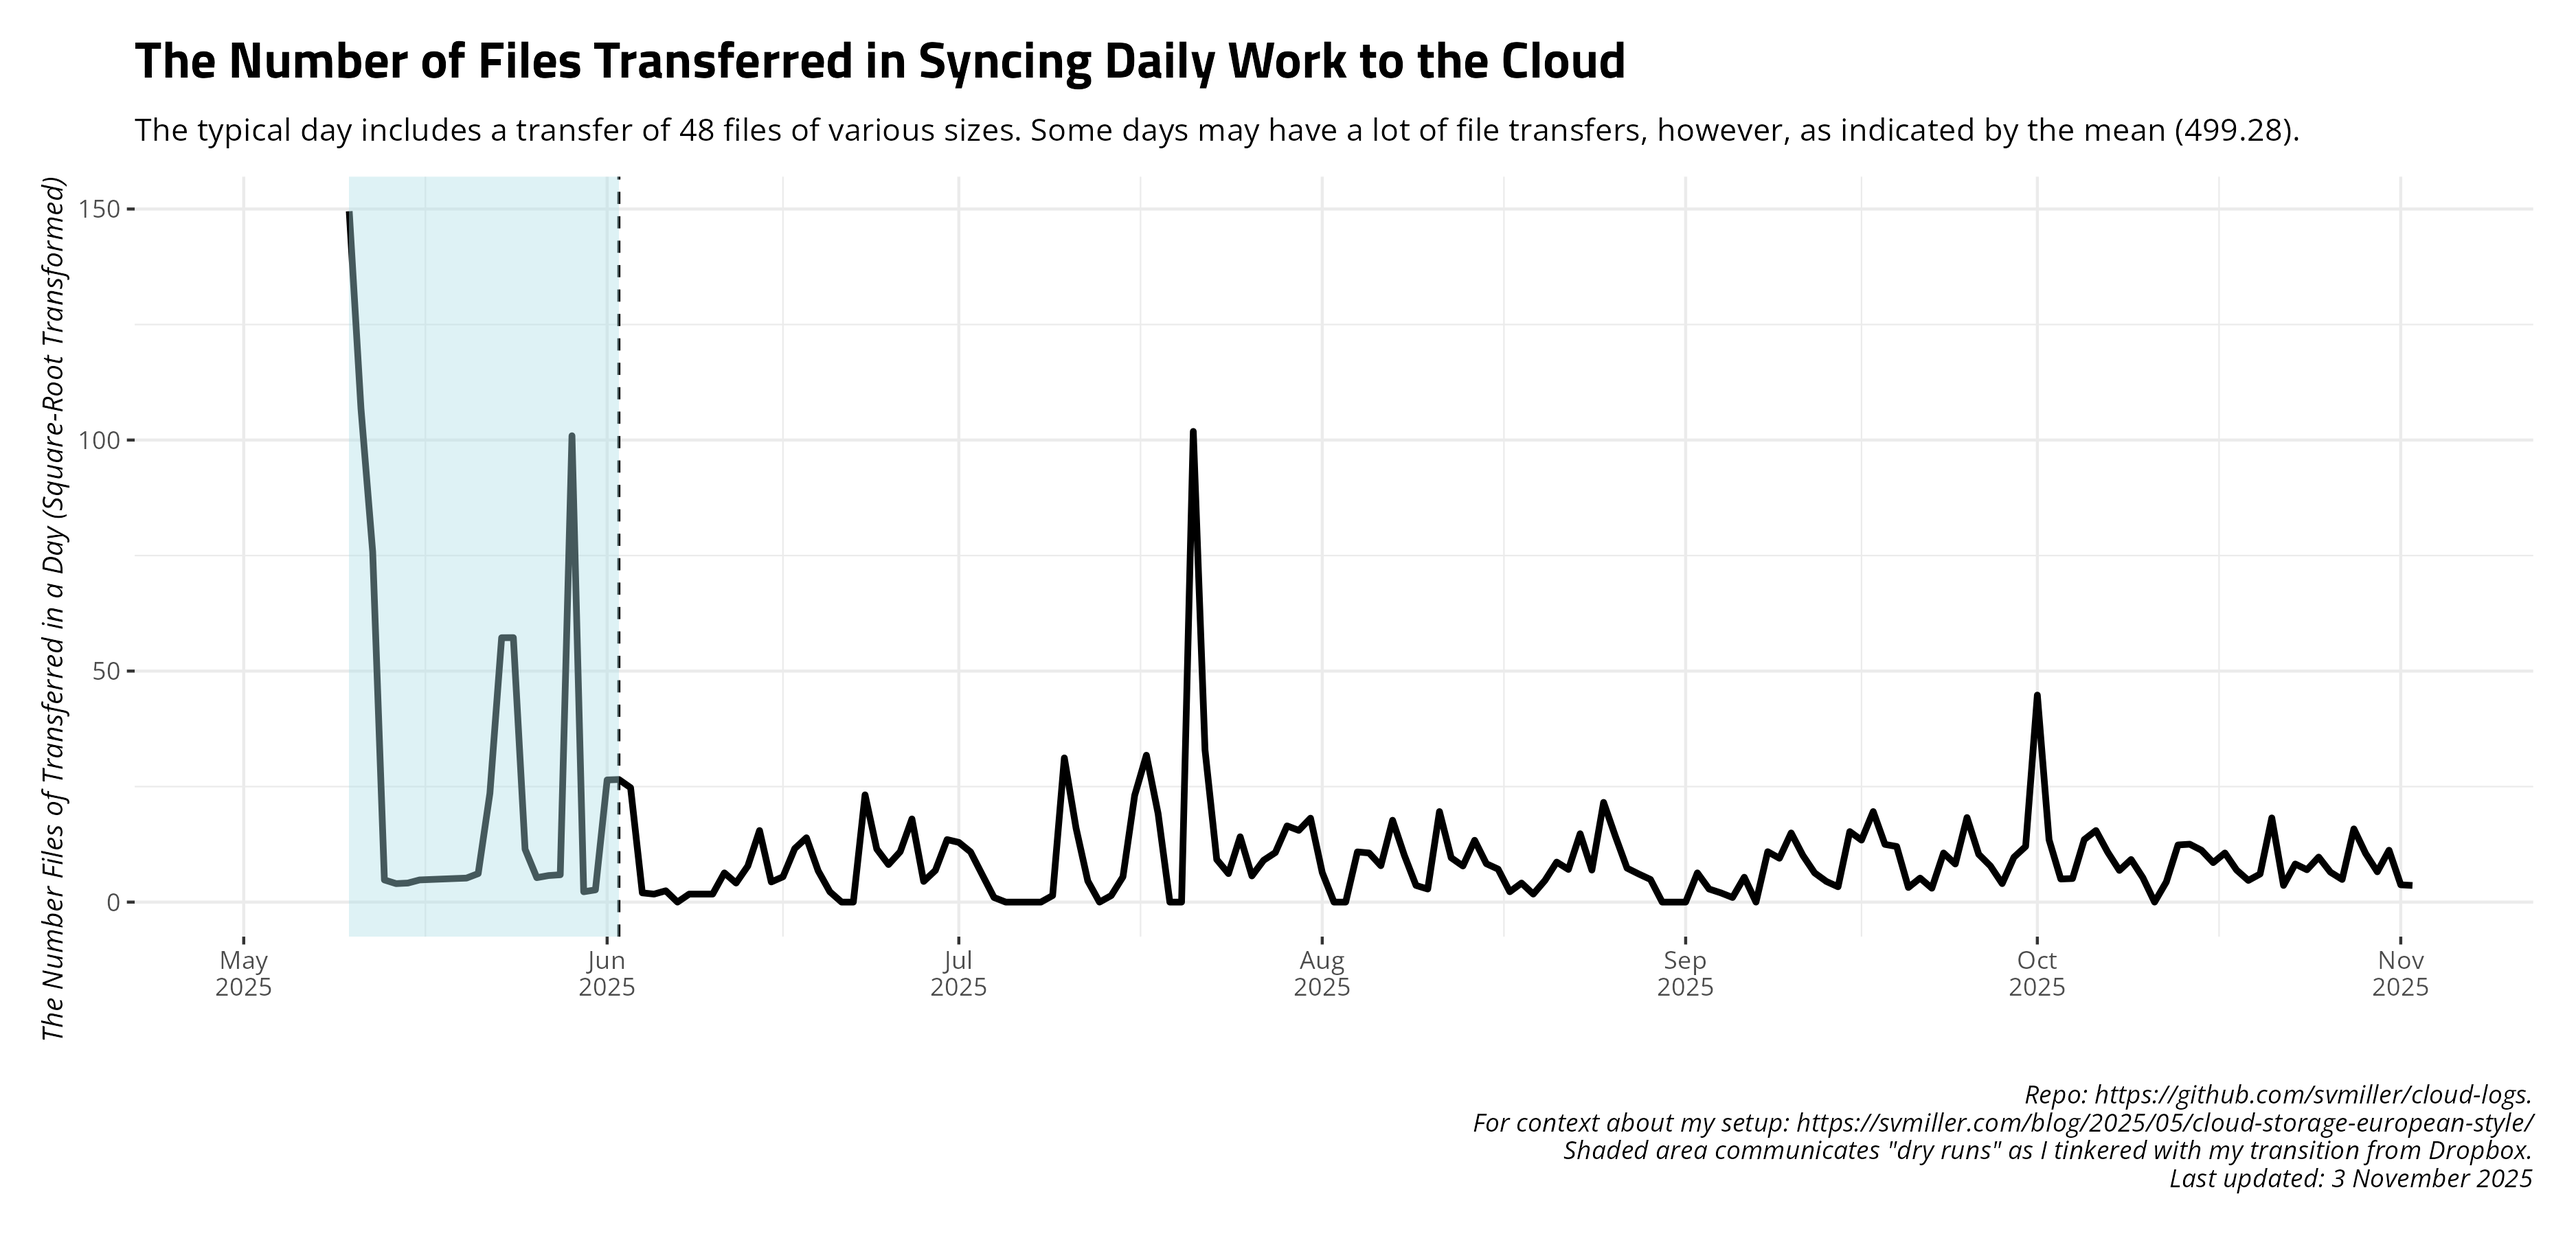
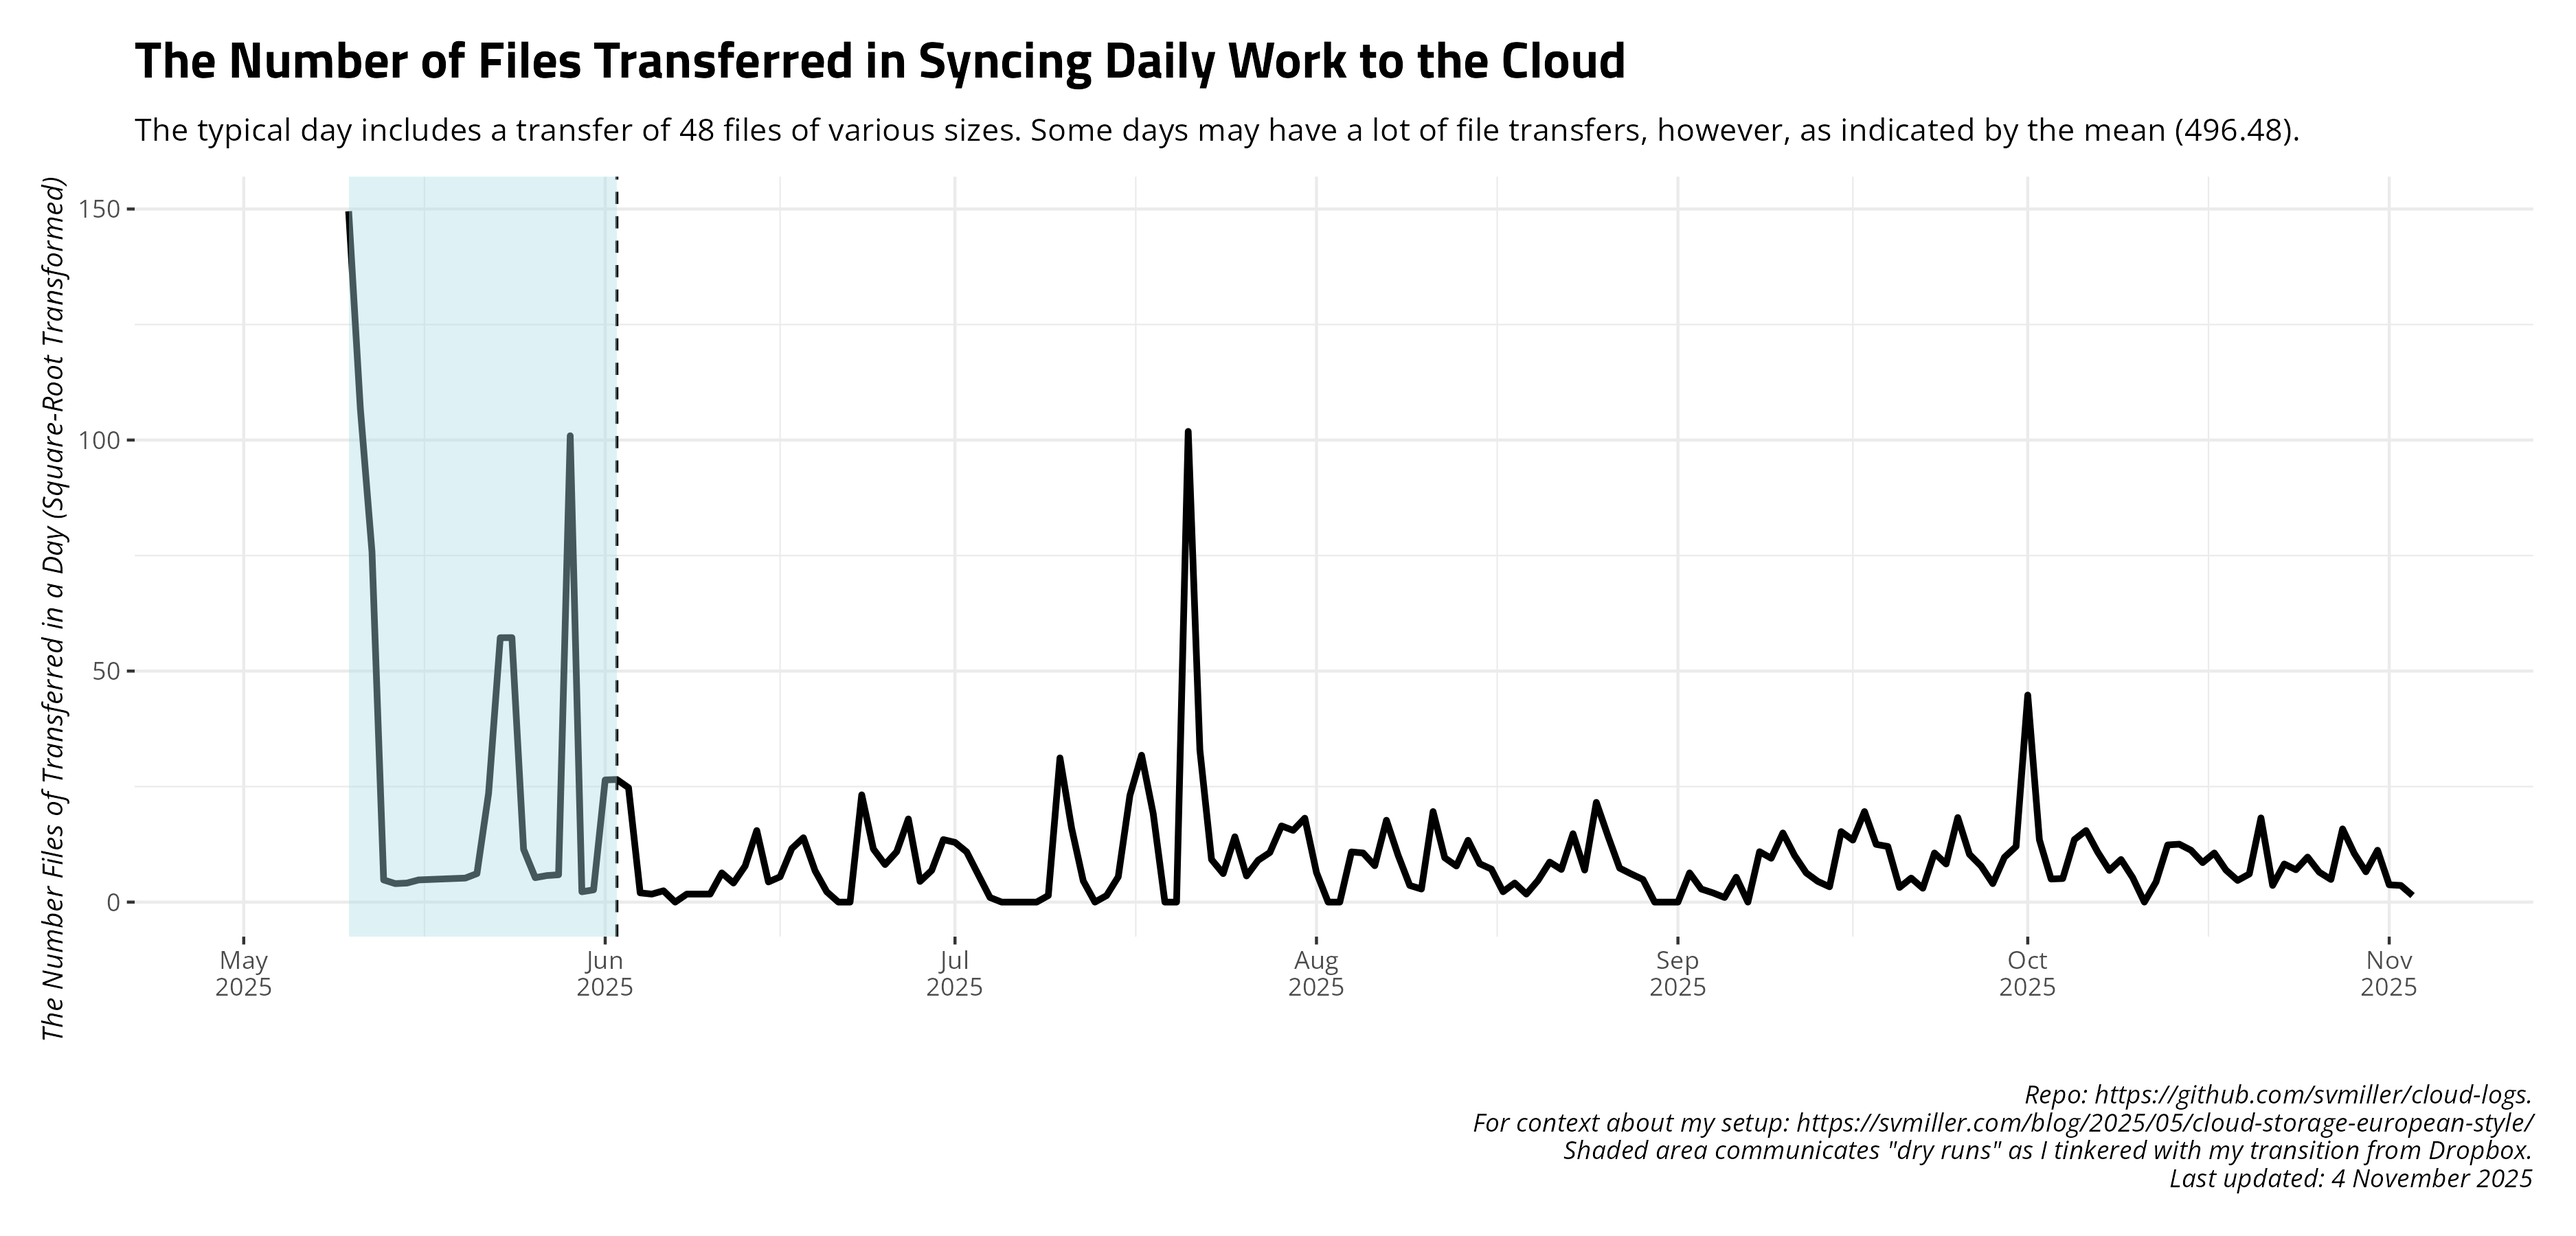
Date: 2025-11-04 09:00:16. Hi mom!

diff --git a/README.md b/README.md
@@ -27,17 +27,17 @@ and uploads to Github.
     #> # A tibble: 14 × 4
     #>    date       ftransfer stransfer   elapsed
     #>    <date>         <dbl> <chr>       <chr>  
-    #>  1 2025-10-20        37 397.260 KiB 4m53.9s
-    #>  2 2025-10-21       332 55.643 MiB  4m15.2s
-    #>  3 2025-10-22        13 1.903 MiB   4m51.0s
-    #>  4 2025-10-23        68 2.442 MiB   4m13.7s
-    #>  5 2025-10-24        49 714.508 KiB 4m48.5s
-    #>  6 2025-10-25        95 6.259 MiB   4m40.1s
-    #>  7 2025-10-26        42 393.283 KiB 4m0.4s 
-    #>  8 2025-10-27        24 143.556 KiB 4m39.8s
-    #>  9 2025-10-28       251 13.888 MiB  4m11.7s
-    #> 10 2025-10-29       111 8.451 MiB   4m24.0s
-    #> 11 2025-10-30        43 515.287 KiB 4m33.3s
-    #> 12 2025-10-31       126 3.302 MiB   4m16.2s
-    #> 13 2025-11-01        14 30.743 KiB  4m51.2s
-    #> 14 2025-11-02        13 58.646 KiB  4m46.9s
+    #>  1 2025-10-21       332 55.643 MiB  4m15.2s
+    #>  2 2025-10-22        13 1.903 MiB   4m51.0s
+    #>  3 2025-10-23        68 2.442 MiB   4m13.7s
+    #>  4 2025-10-24        49 714.508 KiB 4m48.5s
+    #>  5 2025-10-25        95 6.259 MiB   4m40.1s
+    #>  6 2025-10-26        42 393.283 KiB 4m0.4s 
+    #>  7 2025-10-27        24 143.556 KiB 4m39.8s
+    #>  8 2025-10-28       251 13.888 MiB  4m11.7s
+    #>  9 2025-10-29       111 8.451 MiB   4m24.0s
+    #> 10 2025-10-30        43 515.287 KiB 4m33.3s
+    #> 11 2025-10-31       126 3.302 MiB   4m16.2s
+    #> 12 2025-11-01        14 30.743 KiB  4m51.2s
+    #> 13 2025-11-02        13 58.646 KiB  4m46.9s
+    #> 14 2025-11-03         2 7.941 KiB   4m58.0s
